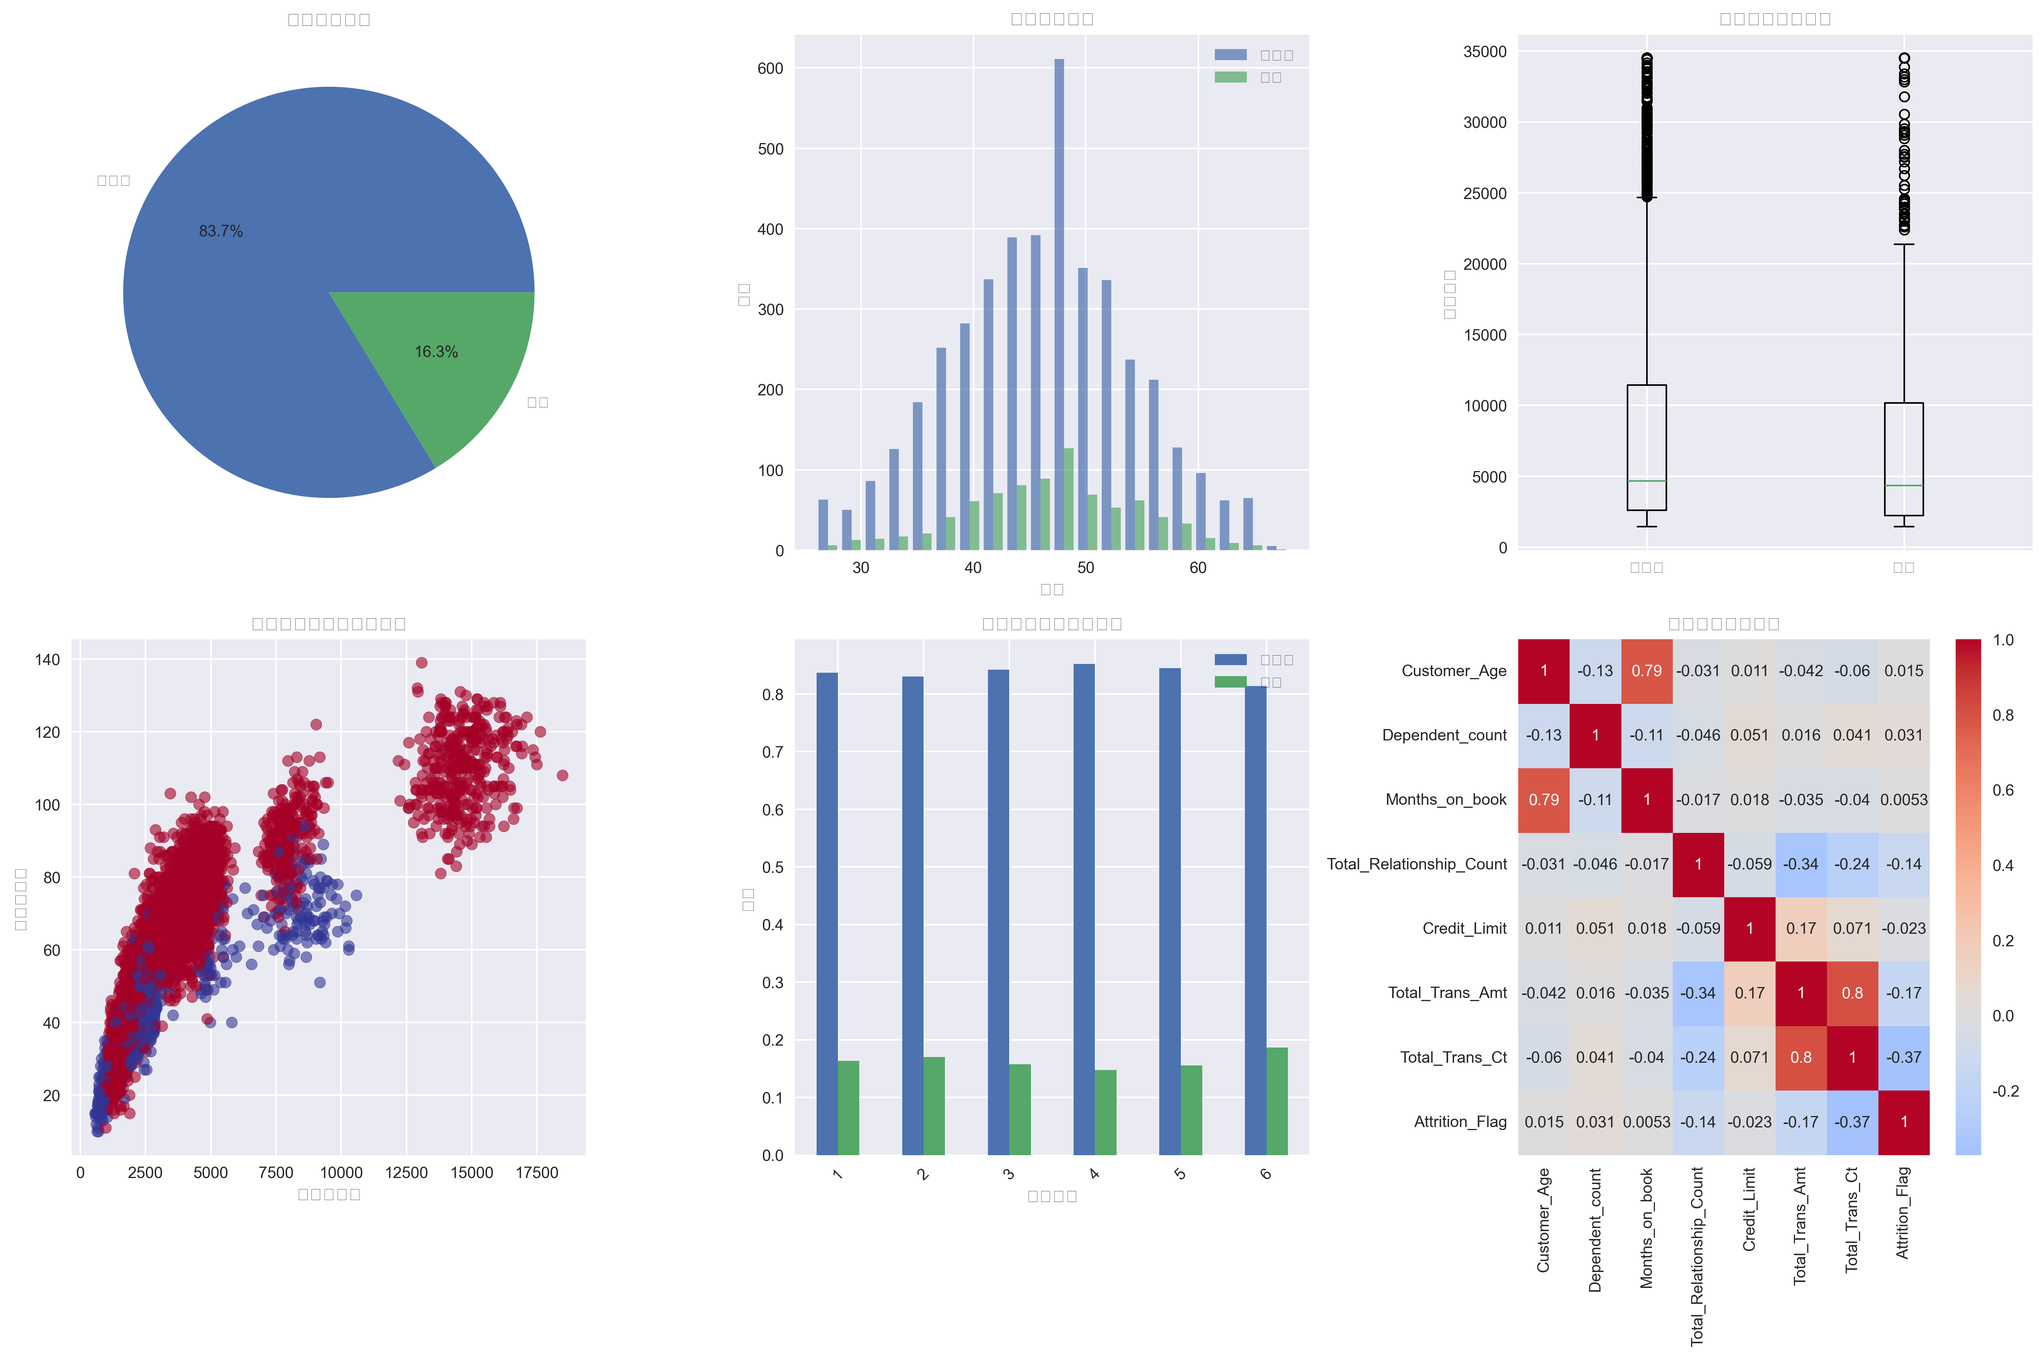
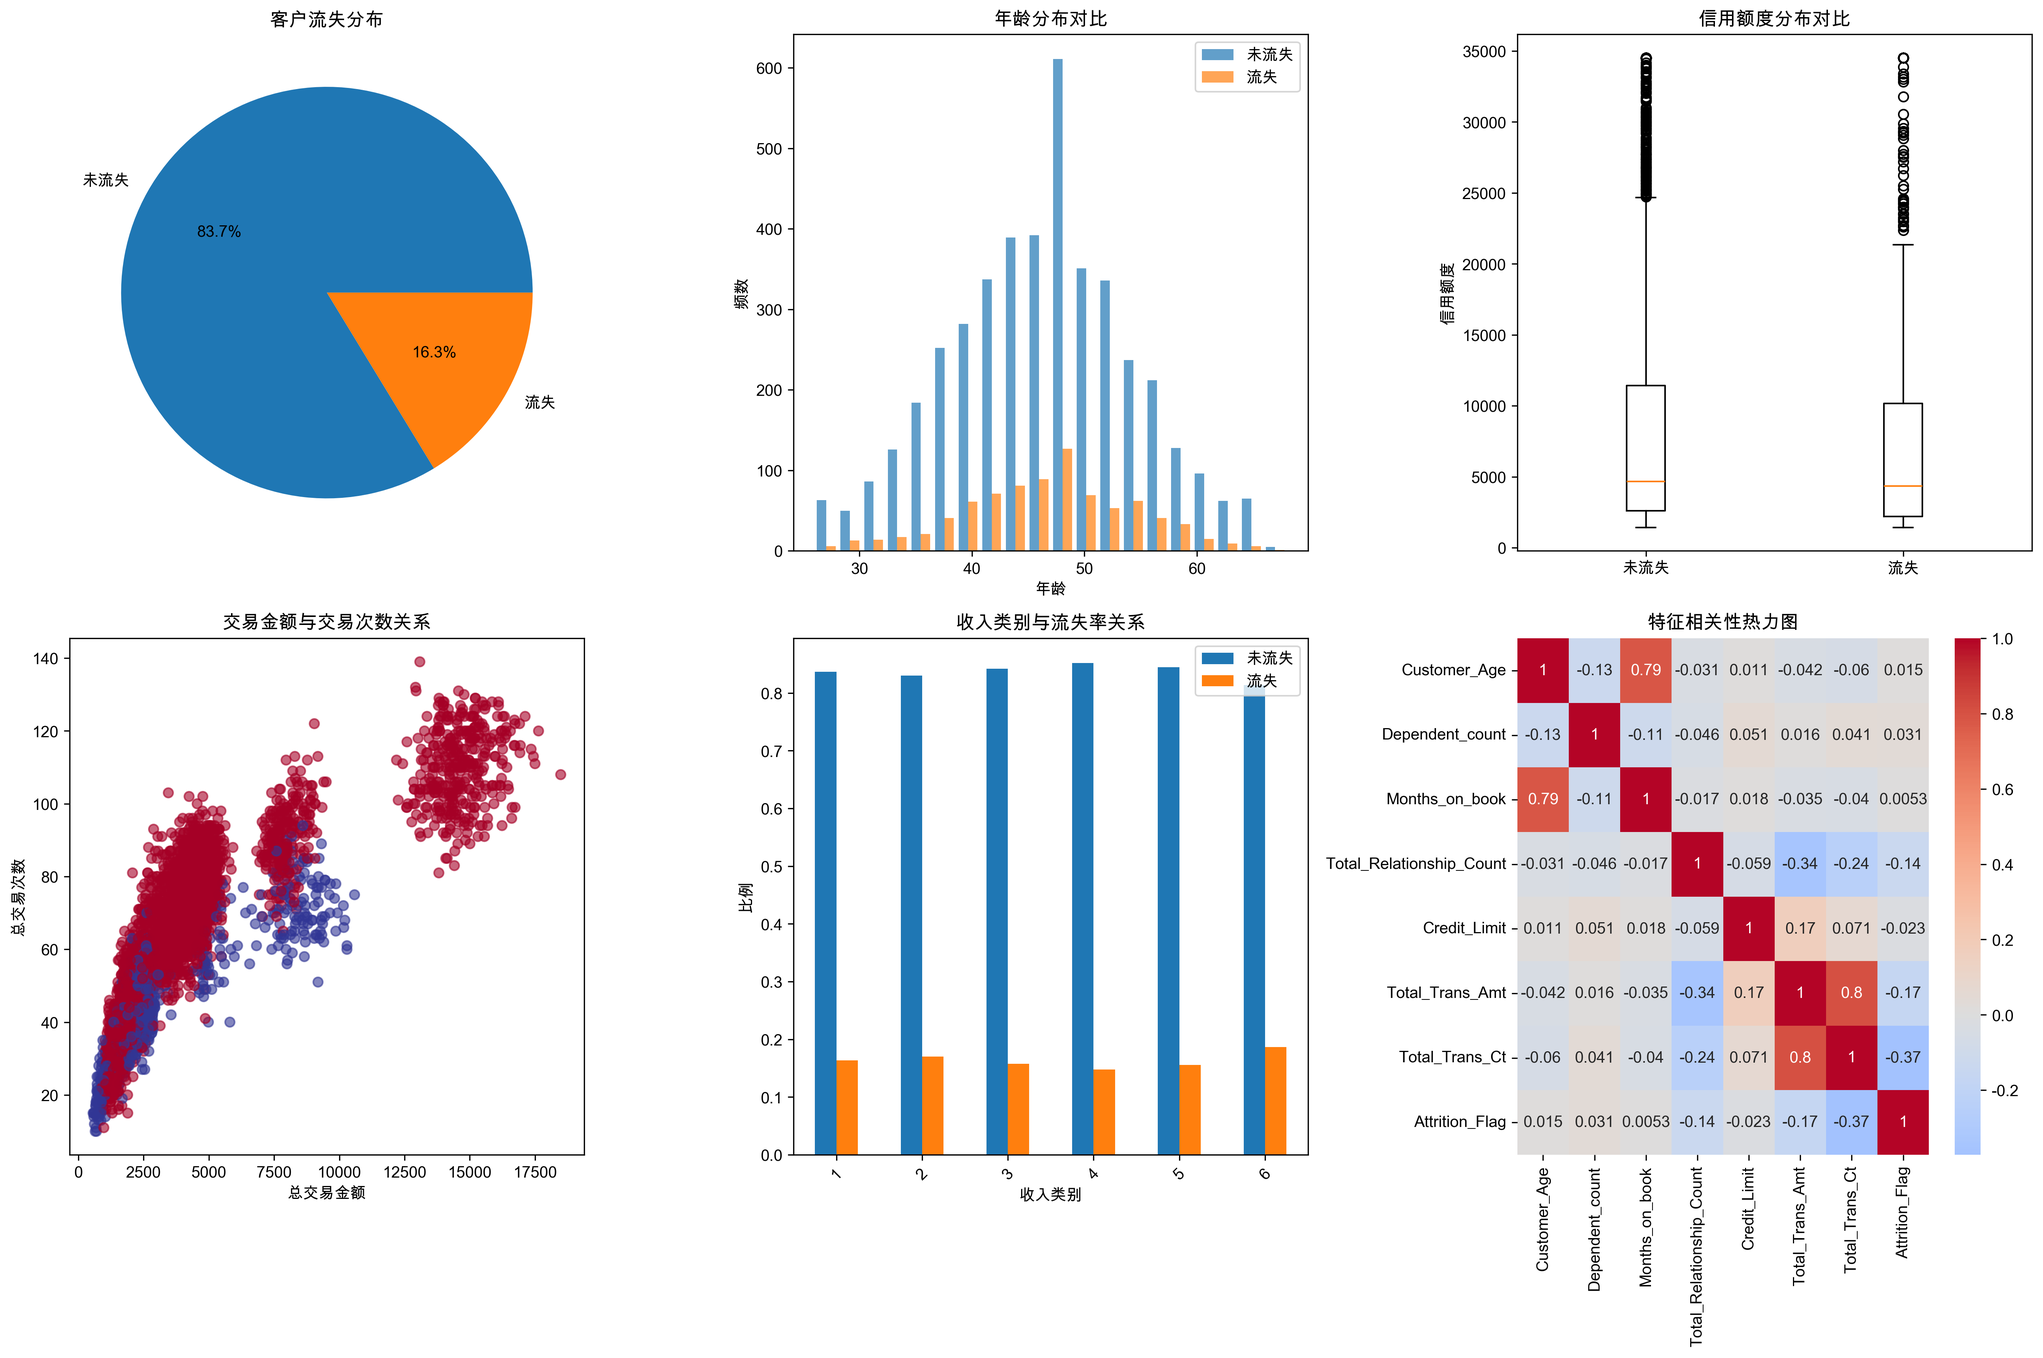
add machine learning introduction assignment

diff --git a/ml-intro/group_assignment/bank_churn_analysis.py b/ml-intro/group_assignment/bank_churn_analysis.py
@@ -2,6 +2,7 @@ import pandas as pd
 import numpy as np
 import matplotlib.pyplot as plt
 import seaborn as sns
+import os
 from sklearn.model_selection import train_test_split, cross_val_score, GridSearchCV
 from sklearn.preprocessing import StandardScaler, LabelEncoder
 from sklearn.linear_model import LogisticRegression
@@ -12,12 +13,6 @@ from sklearn.metrics import (classification_report, confusion_matrix,
                            roc_auc_score, roc_curve, accuracy_score,
                            precision_score, recall_score, f1_score)
 import warnings
-warnings.filterwarnings('ignore')
-
-# 设置中文字体和图形样式
-plt.rcParams['font.sans-serif'] = ['Arial Unicode MS', 'SimHei']
-plt.rcParams['axes.unicode_minus'] = False
-plt.style.use('seaborn-v0_8')
 
 class BankChurnAnalysis:
     def __init__(self):
@@ -32,9 +27,17 @@ class BankChurnAnalysis:
         """加载数据集"""
         print("正在加载数据集...")
         try:
-            self.train_data = pd.read_excel('group_assignment/BankChurners_train.xlsx')
-            self.val_data = pd.read_excel('group_assignment/BankChurners_validation.xlsx')
-            self.test_data = pd.read_excel('group_assignment/BankChurners_test.xlsx')
+            # 获取脚本文件所在目录
+            script_dir = os.path.dirname(os.path.abspath(__file__))
+            
+            # 构建数据文件路径（相对于脚本文件位置）
+            train_path = os.path.join(script_dir, 'BankChurners_train.xlsx')
+            val_path = os.path.join(script_dir, 'BankChurners_validation.xlsx')
+            test_path = os.path.join(script_dir, 'BankChurners_test.xlsx')
+            
+            self.train_data = pd.read_excel(train_path)
+            self.val_data = pd.read_excel(val_path)
+            self.test_data = pd.read_excel(test_path)
             
             print(f"训练集大小: {self.train_data.shape}")
             print(f"验证集大小: {self.val_data.shape}")
@@ -51,9 +54,27 @@ class BankChurnAnalysis:
         print("探索性数据分析")
         print("="*60)
         
+        # 数据结构探索
+        print("\n0. 数据结构探索:")
+        print(f"所有列名 (共{len(self.train_data.columns)}列):")
+        for i, col in enumerate(self.train_data.columns):
+            dtype = self.train_data[col].dtype
+            unique_count = self.train_data[col].nunique()
+            print(f"  {i+1:2d}. {col:<25} | 类型: {str(dtype):<10} | 唯一值数: {unique_count:>3}")
+        
+        # 分析类别型特征
+        categorical_features = ['Gender', 'Education_Level', 'Marital_Status', 'Income_Category', 'Card_Category']
+        print(f"\n指定的类别型特征分析:")
+        for col in categorical_features:
+            if col in self.train_data.columns:
+                unique_vals = sorted(self.train_data[col].unique())
+                print(f"  ✅ {col}: {unique_vals}")
+            else:
+                print(f"  ❌ {col}: 未找到此列")
+        
         # 基本信息
         print("\n1. 数据集基本信息:")
-        print(f"训练集列名: {list(self.train_data.columns)}")
+        print(f"训练集形状: {self.train_data.shape}")
         print(f"数据类型分布:")
         print(self.train_data.dtypes.value_counts())
         
@@ -74,12 +95,18 @@ class BankChurnAnalysis:
         # 数值变量描述统计
         print(f"\n4. 数值变量描述统计:")
         numeric_cols = self.train_data.select_dtypes(include=[np.number]).columns
-        print(self.train_data[numeric_cols].describe())
+        print(f"数值型列数: {len(numeric_cols)}")
+        if len(numeric_cols) > 0:
+            print(self.train_data[numeric_cols].describe())
         
         # 可视化
         self.create_eda_plots()
         
     def create_eda_plots(self):
+        # 设置中文字体支持
+        plt.rcParams['font.sans-serif'] = ['Arial Unicode MS', 'SimHei', 'DejaVu Sans']
+        plt.rcParams['axes.unicode_minus'] = False
+
         """创建探索性数据分析图表"""
         fig, axes = plt.subplots(2, 3, figsize=(18, 12))
         
@@ -130,42 +157,144 @@ class BankChurnAnalysis:
         axes[1,2].set_title('特征相关性热力图')
         
         plt.tight_layout()
-        plt.savefig('group_assignment/eda_analysis.png', dpi=300, bbox_inches='tight')
+        # 获取脚本文件所在目录，保存到当前目录
+        script_dir = os.path.dirname(os.path.abspath(__file__))
+        save_path = os.path.join(script_dir, 'eda_analysis.png')
+        plt.savefig(save_path, dpi=300, bbox_inches='tight')
         plt.show()
     
     def prepare_features(self, data, fit_scaler=False):
-        """特征预处理"""
+        """特征预处理 - 处理已存在的虚拟变量"""
         # 复制数据
         df = data.copy()
         
-        # 选择特征列（排除目标变量）
-        feature_cols = [col for col in df.columns if col != 'Attrition_Flag']
+        # 选择特征列（排除目标变量和id）
+        feature_cols = [col for col in df.columns if col not in ['Attrition_Flag', 'id']]
         
-        # 分离数值型和类别型特征
-        numeric_features = df[feature_cols].select_dtypes(include=[np.number]).columns.tolist()
-        categorical_features = df[feature_cols].select_dtypes(include=['object']).columns.tolist()
+        print(f"\n特征预处理信息:")
+        print(f"原始特征数: {len(feature_cols)}")
         
-        # 处理类别变量（如果存在）
-        for col in categorical_features:
-            if col in df.columns:
-                le = LabelEncoder()
-                df[col] = le.fit_transform(df[col].astype(str))
+        # 定义原始的数字化类别特征（需要删除，因为已有虚拟变量）
+        original_categorical = ['Gender', 'Education_Level', 'Marital_Status', 'Income_Category', 'Card_Category']
+        
+        # 明确定义虚拟变量组（基于实际数据结构）
+        dummy_groups = {
+            'Gender': ['Gender_F', 'Gender_M'],
+            'Education_Level': [
+                'Education_Level_Unknown', 'Education_Level_Uneducated', 
+                'Education_Level_High_School', 'Education_Level_College',
+                'Education_Level_Graduate', 'Education_Level_Post_Graduate', 
+                'Education_Level_Doctorate'
+            ],
+            'Marital_Status': [
+                'Marital_Status_Unknown', 'Marital_Status_Single',
+                'Marital_Status_Divorced', 'Marital_Status_Married'
+            ],
+            'Income_Category': [
+                'Income_Category_Unknown', 'Income_Category_Less_than_40k',
+                'Income_Category_40k_60k', 'Income_Category_60k_80k',
+                'Income_Category_80k_120k', 'Income_Category_over120k'
+            ],
+            'Card_Category': [
+                'Card_Category_Blue', 'Card_Category_Silver',
+                'Card_Category_Gold', 'Card_Category_Platinum'
+            ]
+        }
+        
+        # 收集所有虚拟变量
+        all_dummy_vars = []
+        for group_vars in dummy_groups.values():
+            all_dummy_vars.extend(group_vars)
+        
+        # 数值型特征（不是原始类别特征，也不是虚拟变量）
+        numeric_features = [col for col in feature_cols 
+                           if col not in original_categorical and col not in all_dummy_vars]
+        
+        print(f"\n特征分类结果:")
+        print(f"  - 原始类别特征(将删除): {original_categorical}")
+        print(f"  - 数值型特征数量: {len(numeric_features)}")
+        print(f"  - 虚拟变量组数量: {len(dummy_groups)}")
+        
+        # 验证虚拟变量是否存在并显示
+        existing_dummy_groups = {}
+        for base_name, group_vars in dummy_groups.items():
+            existing_vars = [col for col in group_vars if col in df.columns]
+            if existing_vars:
+                existing_dummy_groups[base_name] = existing_vars
+                print(f"    {base_name}: {existing_vars} (共{len(existing_vars)}个)")
+            else:
+                print(f"    {base_name}: 未找到虚拟变量")
+        
+        # 处理虚拟变量组，删除一个以避免共线性
+        final_features = numeric_features.copy()
+        removed_features = []
+        
+        for base_name, group_vars in existing_dummy_groups.items():
+            if len(group_vars) > 1:
+                # 删除第一个变量作为参考类别
+                reference_var = group_vars[0]
+                selected_vars = group_vars[1:]
+                removed_features.append(reference_var)
+                
+                print(f"\n处理虚拟变量组 '{base_name}':")
+                print(f"  - 删除参考类别: {reference_var}")
+                print(f"  - 保留变量: {selected_vars}")
+                
+                final_features.extend(selected_vars)
+            else:
+                # 只有一个变量的组，直接保留
+                print(f"\n虚拟变量组 '{base_name}' 只有1个变量，直接保留: {group_vars}")
+                final_features.extend(group_vars)
+        
+        print(f"\n最终特征选择结果:")
+        print(f"  - 数值型特征: {len(numeric_features)}")
+        print(f"  - 保留的虚拟变量: {len(final_features) - len(numeric_features)}")
+        print(f"  - 总特征数: {len(final_features)}")
+        print(f"  - 删除的原始类别特征: {len(original_categorical)}")
+        print(f"  - 删除的参考虚拟变量: {len(removed_features)}")
+        print(f"  - 删除的参考变量: {removed_features}")
         
         # 准备最终特征矩阵
-        X = df[feature_cols]
+        X_processed = df[final_features]
         
-        # 标准化数值特征
-        if fit_scaler:
-            X_scaled = self.scaler.fit_transform(X)
+        print(f"\n数据质量检查:")
+        print(f"  - 最终数据形状: {X_processed.shape}")
+        print(f"  - 数据类型分布: {X_processed.dtypes.value_counts().to_dict()}")
+        
+        # 检查缺失值
+        missing_count = X_processed.isnull().sum().sum()
+        if missing_count > 0:
+            print(f"  - 警告: 发现 {missing_count} 个缺失值，将用0填充")
+            X_processed = X_processed.fillna(0)
         else:
-            X_scaled = self.scaler.transform(X)
+            print(f"  - 无缺失值")
+        
+        # 确保所有特征都是数值型
+        non_numeric_cols = X_processed.select_dtypes(exclude=[np.number]).columns
+        if len(non_numeric_cols) > 0:
+            print(f"  - 警告: 非数值型列: {list(non_numeric_cols)}")
+            for col in non_numeric_cols:
+                X_processed[col] = pd.to_numeric(X_processed[col], errors='coerce')
+        
+        # 标准化特征
+        if fit_scaler:
+            print(f"  - 执行 fit_transform (训练集标准化)")
+            X_scaled = self.scaler.fit_transform(X_processed)
+            # 保存特征名称用于后续分析
+            self.feature_names_ = final_features
+            print(f"  - 保存了 {len(self.feature_names_)} 个特征名称")
+        else:
+            print(f"  - 执行 transform (验证/测试集标准化)")
+            X_scaled = self.scaler.transform(X_processed)
+        
+        print(f"  - 标准化后形状: {X_scaled.shape}")
         
         # 获取目标变量（如果存在）
         if 'Attrition_Flag' in df.columns:
             y = df['Attrition_Flag']
-            return X_scaled, y, feature_cols
+            return X_scaled, y, final_features
         else:
-            return X_scaled, None, feature_cols
+            return X_scaled, None, final_features
     
     def train_models(self):
         """训练多个机器学习模型"""
@@ -301,7 +430,10 @@ class BankChurnAnalysis:
                        f'{height:.3f}', ha='center', va='bottom')
         
         plt.tight_layout()
-        plt.savefig('group_assignment/model_comparison.png', dpi=300, bbox_inches='tight')
+        # 获取脚本文件所在目录
+        script_dir = os.path.dirname(os.path.abspath(__file__))
+        save_path = os.path.join(script_dir, 'model_comparison.png')
+        plt.savefig(save_path, dpi=300, bbox_inches='tight')
         plt.show()
     
     def plot_roc_curves(self):
@@ -337,7 +469,10 @@ class BankChurnAnalysis:
         plt.grid(True, alpha=0.3)
         
         plt.tight_layout()
-        plt.savefig('group_assignment/roc_curves.png', dpi=300, bbox_inches='tight')
+        # 获取脚本文件所在目录
+        script_dir = os.path.dirname(os.path.abspath(__file__))
+        save_path = os.path.join(script_dir, 'roc_curves.png')
+        plt.savefig(save_path, dpi=300, bbox_inches='tight')
         plt.show()
     
     def evaluate_best_model(self, best_model_name):
@@ -393,7 +528,10 @@ class BankChurnAnalysis:
         plt.ylabel('实际结果')
         
         plt.tight_layout()
-        plt.savefig(f'group_assignment/confusion_matrix_{model_name}.png', dpi=300, bbox_inches='tight')
+        # 获取脚本文件所在目录
+        script_dir = os.path.dirname(os.path.abspath(__file__))
+        save_path = os.path.join(script_dir, f'confusion_matrix_{model_name}.png')
+        plt.savefig(save_path, dpi=300, bbox_inches='tight')
         plt.show()
     
     def plot_feature_importance(self, model, model_name):
@@ -408,8 +546,13 @@ class BankChurnAnalysis:
                 print(f"模型 {model_name} 不支持特征重要性分析")
                 return
             
-            # 获取特征名称（简化版）
-            feature_names = [f'Feature_{i}' for i in range(len(importances))]
+            # 获取特征名称
+            if hasattr(self, 'feature_names_') and len(self.feature_names_) == len(importances):
+                feature_names = self.feature_names_
+                print(f"使用真实特征名称 (共{len(feature_names)}个特征)")
+            else:
+                feature_names = [f'Feature_{i}' for i in range(len(importances))]
+                print(f"使用默认特征名称 (共{len(feature_names)}个特征)")
             
             # 排序
             indices = np.argsort(importances)[::-1]
@@ -417,19 +560,40 @@ class BankChurnAnalysis:
             # 选择前20个最重要的特征
             n_features = min(20, len(importances))
             
-            plt.figure(figsize=(12, 8))
-            plt.bar(range(n_features), importances[indices[:n_features]])
+            # 获取Top特征的名称和重要性
+            top_features = [(feature_names[i], importances[i]) for i in indices[:n_features]]
+            
+            print(f"\n{model_name} - 前{n_features}个重要特征:")
+            for i, (name, importance) in enumerate(top_features, 1):
+                print(f"  {i:2d}. {name:<25}: {importance:.4f}")
+            
+            plt.figure(figsize=(14, 8))
+            bars = plt.bar(range(n_features), importances[indices[:n_features]], alpha=0.7)
             plt.title(f'{model_name} - 前{n_features}个重要特征')
             plt.xlabel('特征')
             plt.ylabel('重要性')
-            plt.xticks(range(n_features), [feature_names[i] for i in indices[:n_features]], rotation=45)
+            
+            # 设置x轴标签，旋转以避免重叠
+            feature_labels = [feature_names[i] for i in indices[:n_features]]
+            plt.xticks(range(n_features), feature_labels, rotation=45, ha='right')
+            
+            # 添加数值标签
+            for i, bar in enumerate(bars):
+                height = bar.get_height()
+                plt.text(bar.get_x() + bar.get_width()/2., height + 0.001,
+                        f'{height:.3f}', ha='center', va='bottom', fontsize=8)
             
             plt.tight_layout()
-            plt.savefig(f'group_assignment/feature_importance_{model_name}.png', dpi=300, bbox_inches='tight')
+            # 获取脚本文件所在目录
+            script_dir = os.path.dirname(os.path.abspath(__file__))
+            save_path = os.path.join(script_dir, f'feature_importance_{model_name}.png')
+            plt.savefig(save_path, dpi=300, bbox_inches='tight')
             plt.show()
             
         except Exception as e:
             print(f"绘制特征重要性时出错: {e}")
+            import traceback
+            traceback.print_exc()
     
     def generate_business_insights(self, best_model_name, test_metrics):
         """生成商业洞察和建议"""
@@ -484,10 +648,14 @@ class BankChurnAnalysis:
         }
         
         import json
-        with open('group_assignment/results_summary.json', 'w', encoding='utf-8') as f:
+        # 获取脚本文件所在目录
+        script_dir = os.path.dirname(os.path.abspath(__file__))
+        save_path = os.path.join(script_dir, 'results_summary.json')
+        
+        with open(save_path, 'w', encoding='utf-8') as f:
             json.dump(results_summary, f, ensure_ascii=False, indent=2, default=str)
         
-        print(f"\n结果摘要已保存到: group_assignment/results_summary.json")
+        print(f"\n结果摘要已保存到: {save_path}")
     
     def run_complete_analysis(self):
         """运行完整分析流程"""
